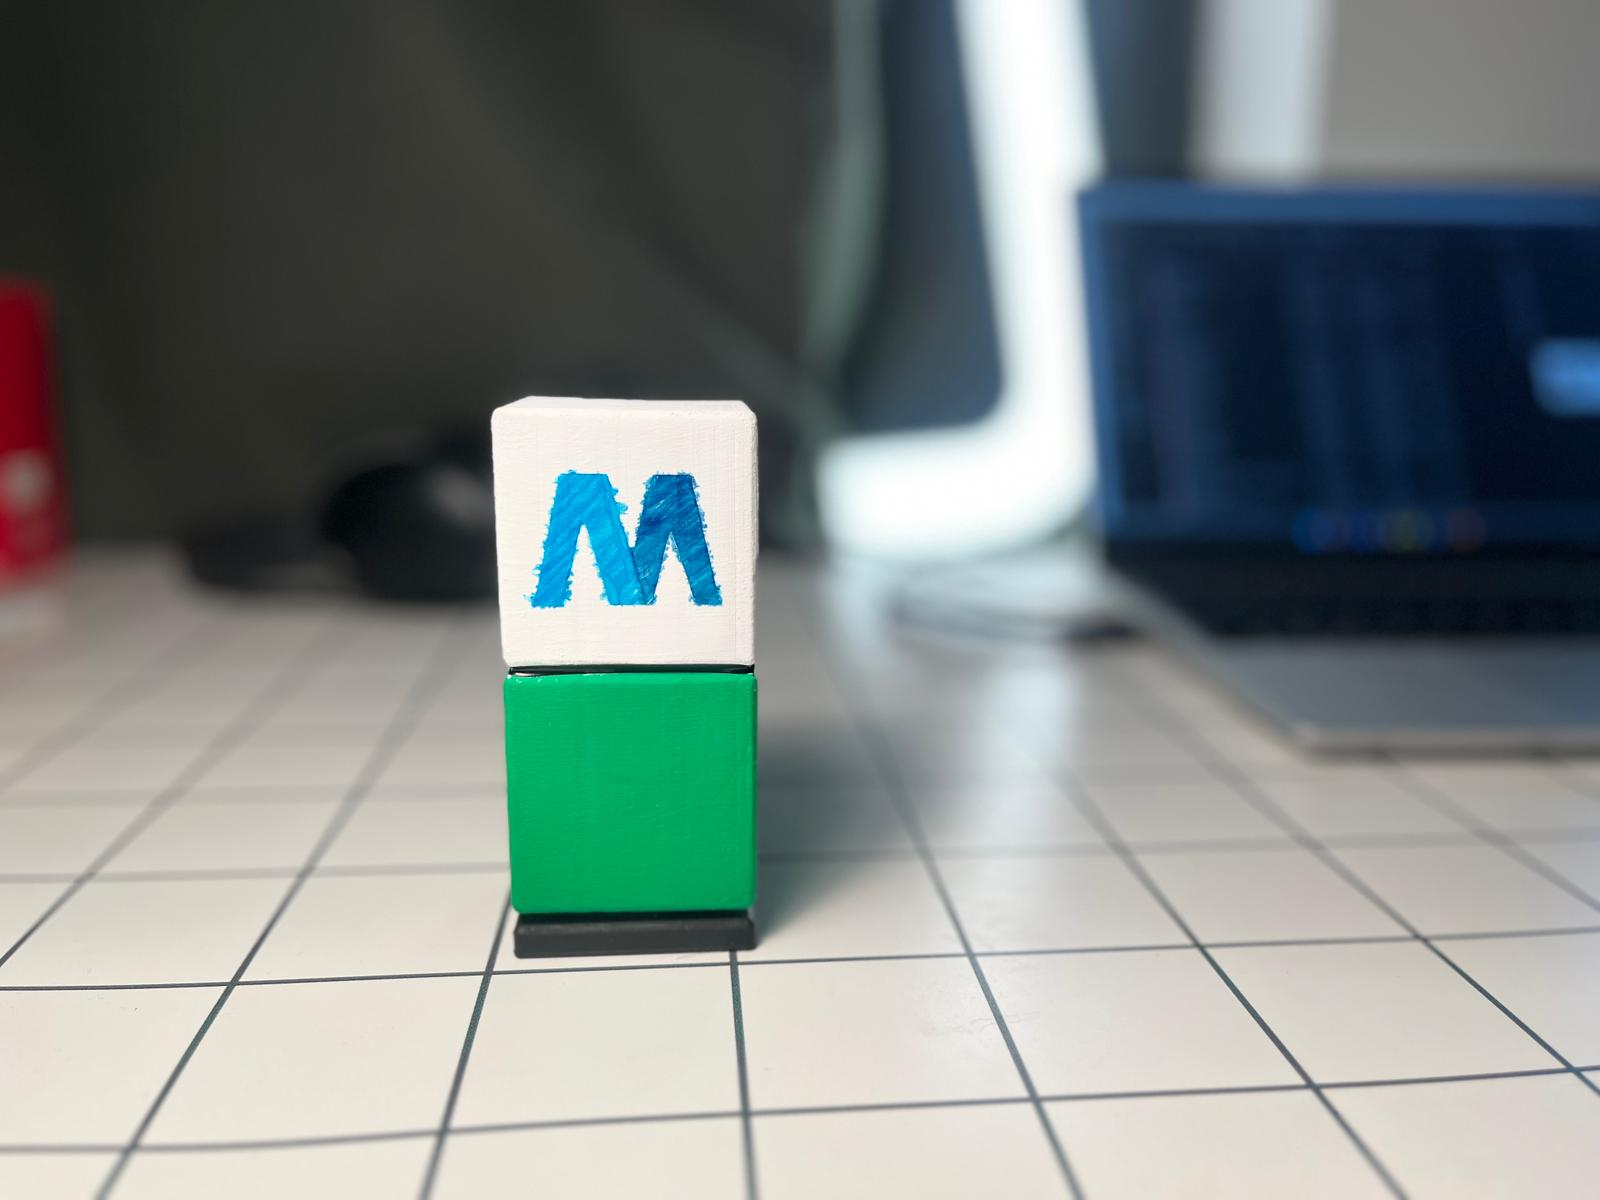
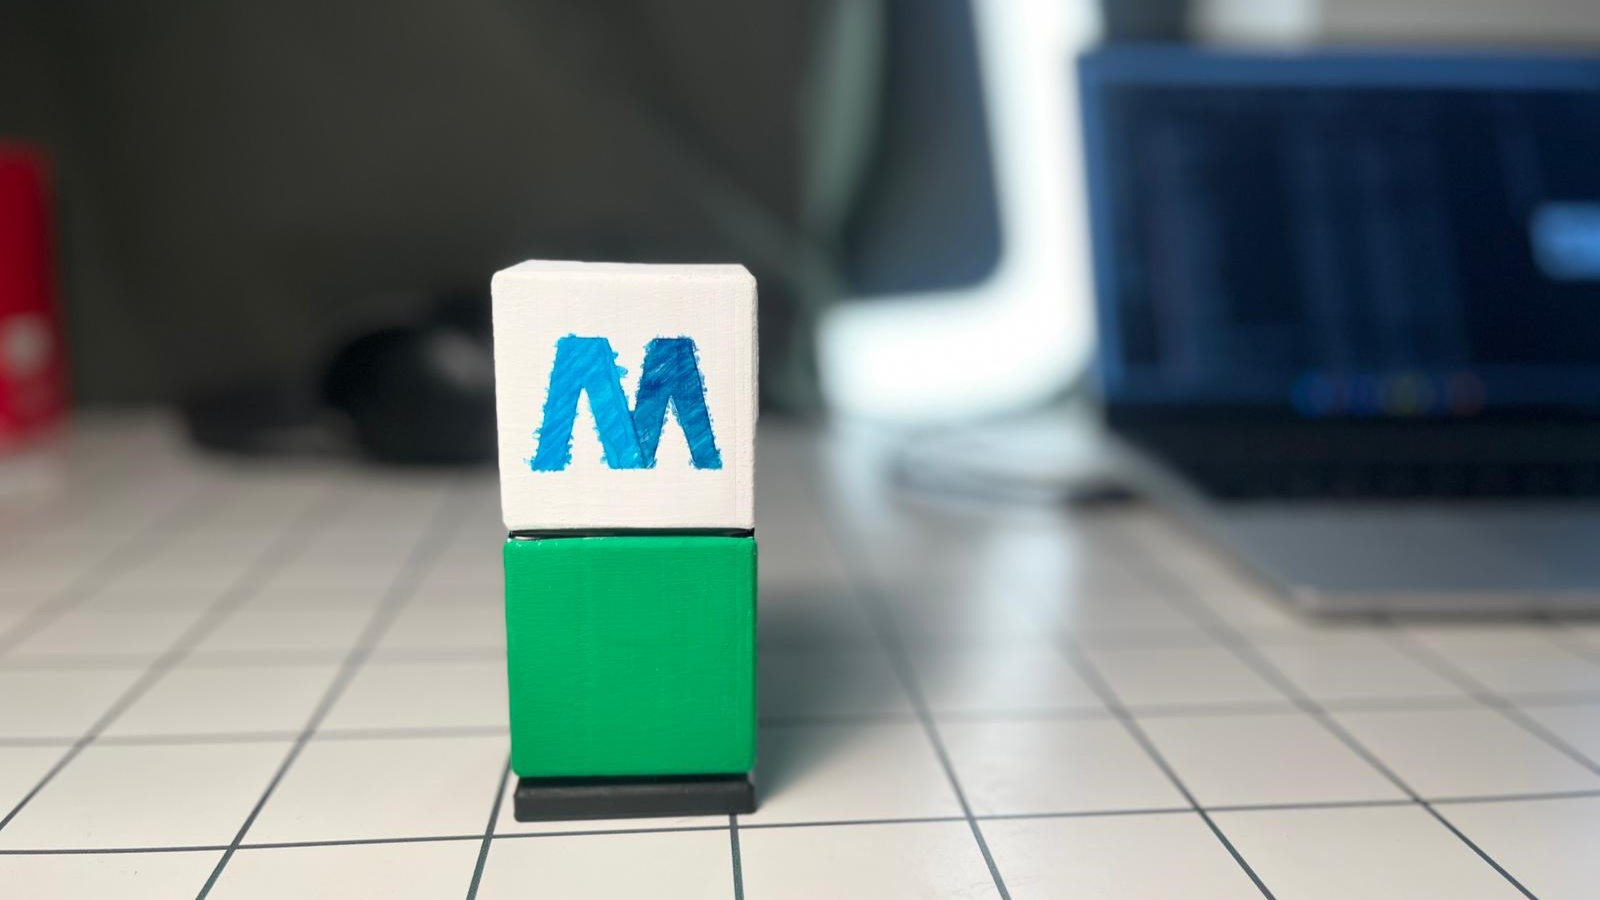
Chore: readme updated, gif watermark removed, git front page image added/cropped

diff --git a/README.md b/README.md
@@ -2,7 +2,8 @@
 ## 🚀 About
 Make your own MTA Table Lamp for much cheaper and adjustable whitebalance based on the sun using an ESP32!
 <div style="display: flex;">
-    <img src="media/demo.gif" alt="lamp changing white balance and being switch on/off" width="1000" style="margin-right: 10px;" />
+    <img src="media/demo.gif" alt="lamp changing white balance and being switch on/off" width="500" style="margin-right: 10px;" />
+    <img src="2.jpg" alt="lamp from front" width="500" />
 </div>
 
 ## ⚙ Hardware
